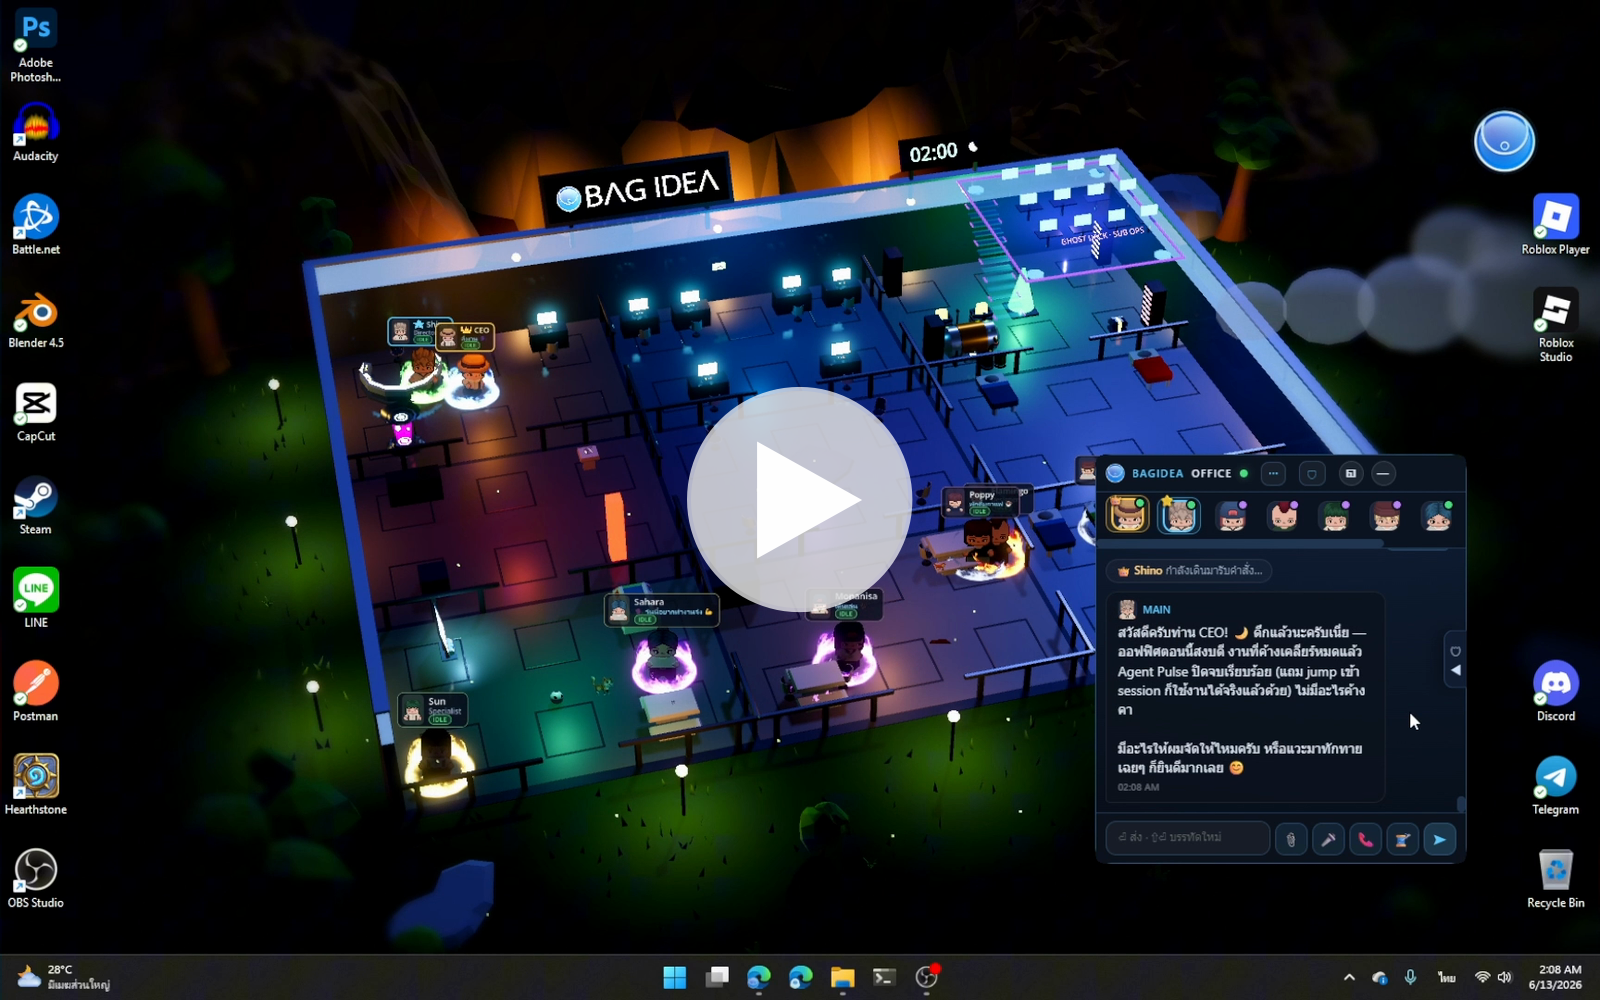
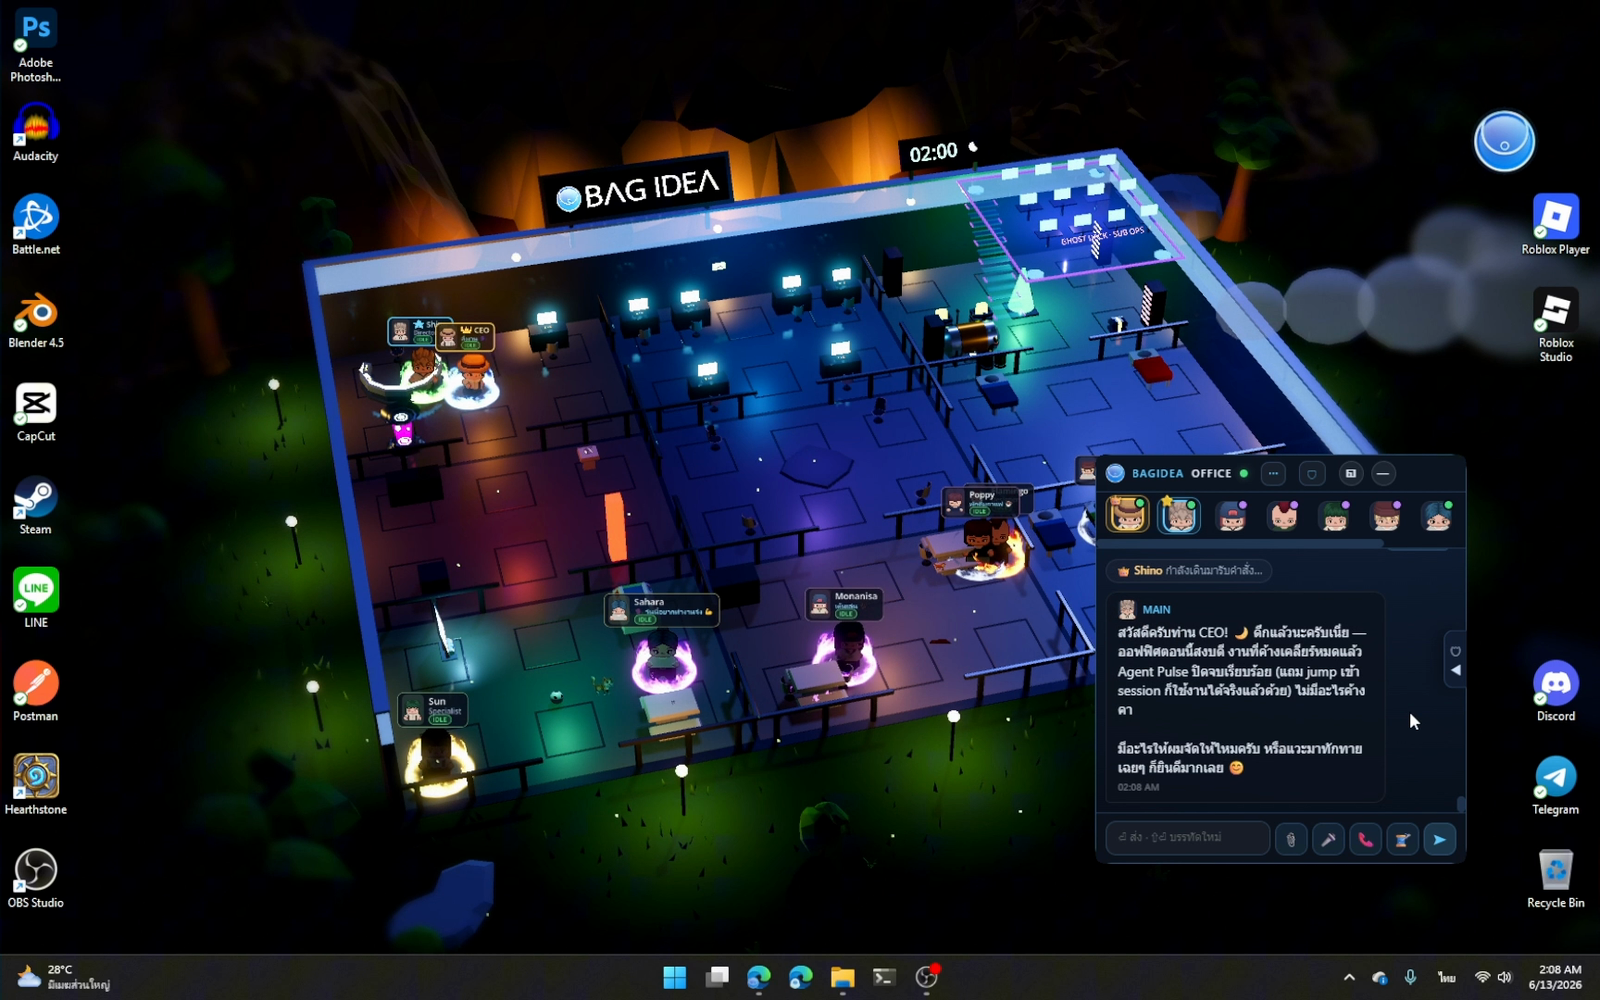
docs(readme): clean hero image + a "▶ Watch the live demo" button below it
Per feedback, don't cover the screenshot with the play button. Restore the clean
wide still and put a clear for-the-badge "▶ Watch the live demo" button underneath
(links to the autoplay demo on the site). Bumped ?v=4.

Changed region(s): [[0.4062, 0.372, 0.5938, 0.62]]

diff --git a/README.md b/README.md
@@ -19,8 +19,9 @@
 **Install in one line** — `npx bagidea` (or [from source](#install)). Windows · macOS/Linux (beta).
 
 <p align="center">
-  <a href="https://bagidea.github.io/bagidea-office/" title="Watch it live"><img src="https://bagidea.github.io/bagidea-office/img/hero-still.png?v=3" width="820" alt="BagIdea Office — a living HD-2D AI-agent office running as your desktop wallpaper, agents at their desks behind your icons"></a>
-  <br><sub><b><a href="https://bagidea.github.io/bagidea-office/">▶ Watch it live — smooth autoplay demo on the site</a></b></sub>
+  <a href="https://bagidea.github.io/bagidea-office/" title="Watch the live demo"><img src="https://bagidea.github.io/bagidea-office/img/hero-still.png?v=4" width="820" alt="BagIdea Office — a living HD-2D AI-agent office running as your desktop wallpaper, agents at their desks behind your icons"></a>
+  <br>
+  <a href="https://bagidea.github.io/bagidea-office/"><img src="https://img.shields.io/badge/%E2%96%B6%20Watch%20the%20live%20demo-5ec8ff?style=for-the-badge&labelColor=0d1430" alt="Watch the live demo"></a>
 </p>
 
 Not a dashboard. Not a chat window. A **world** that renders the true state of